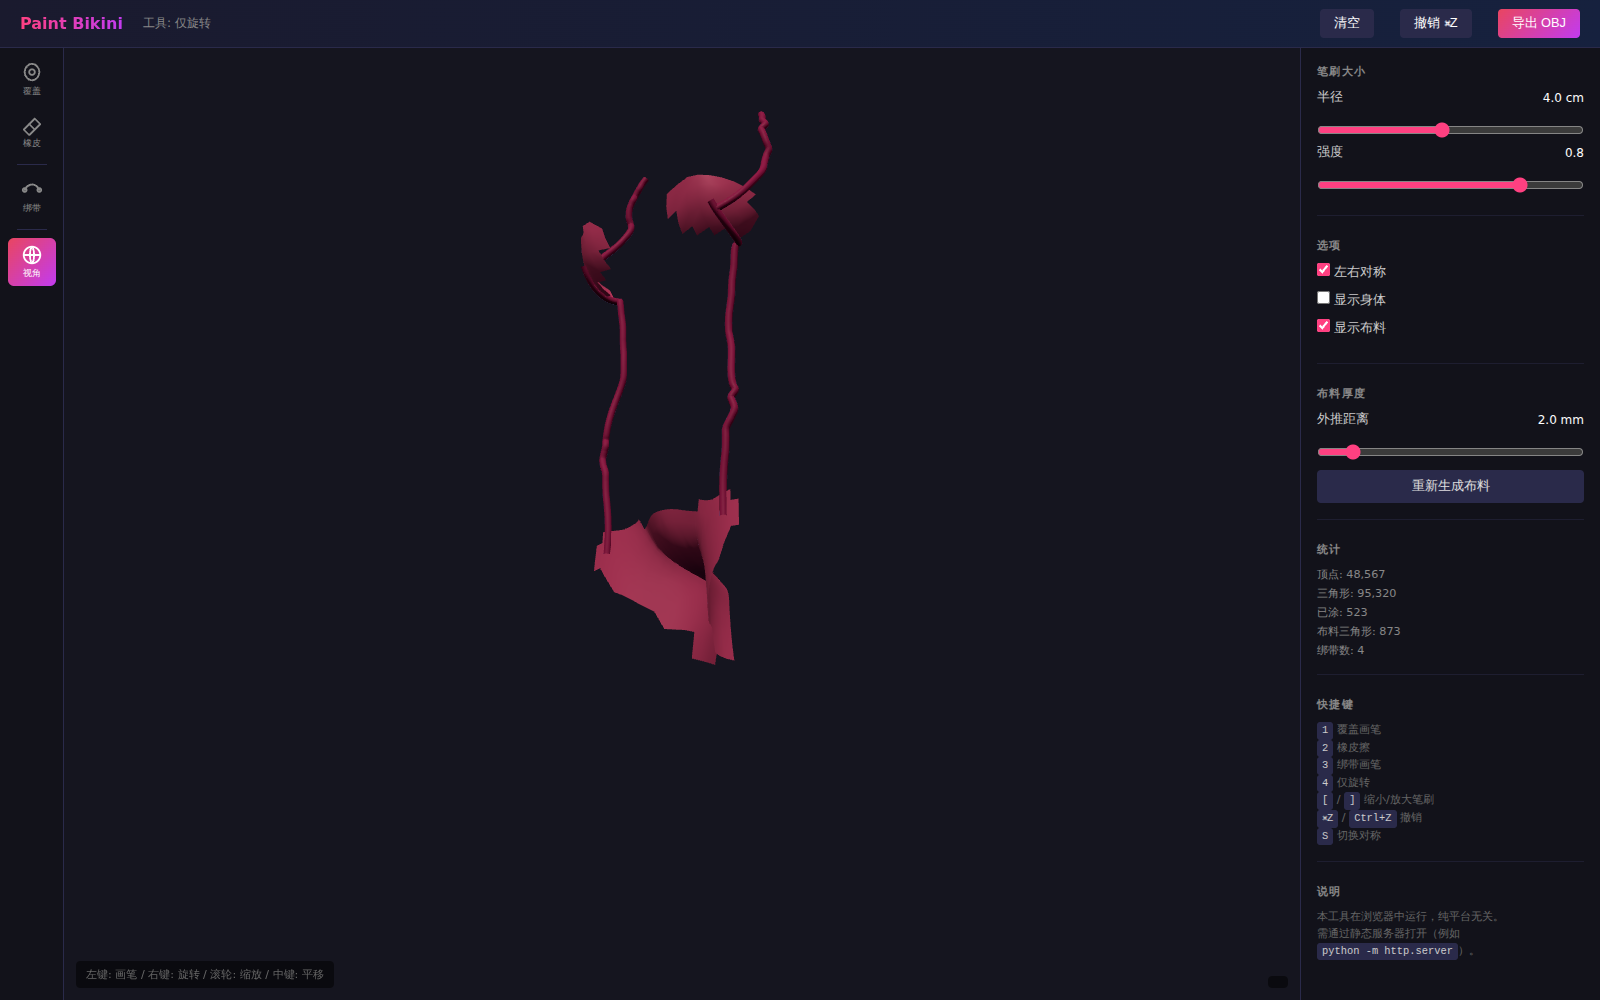
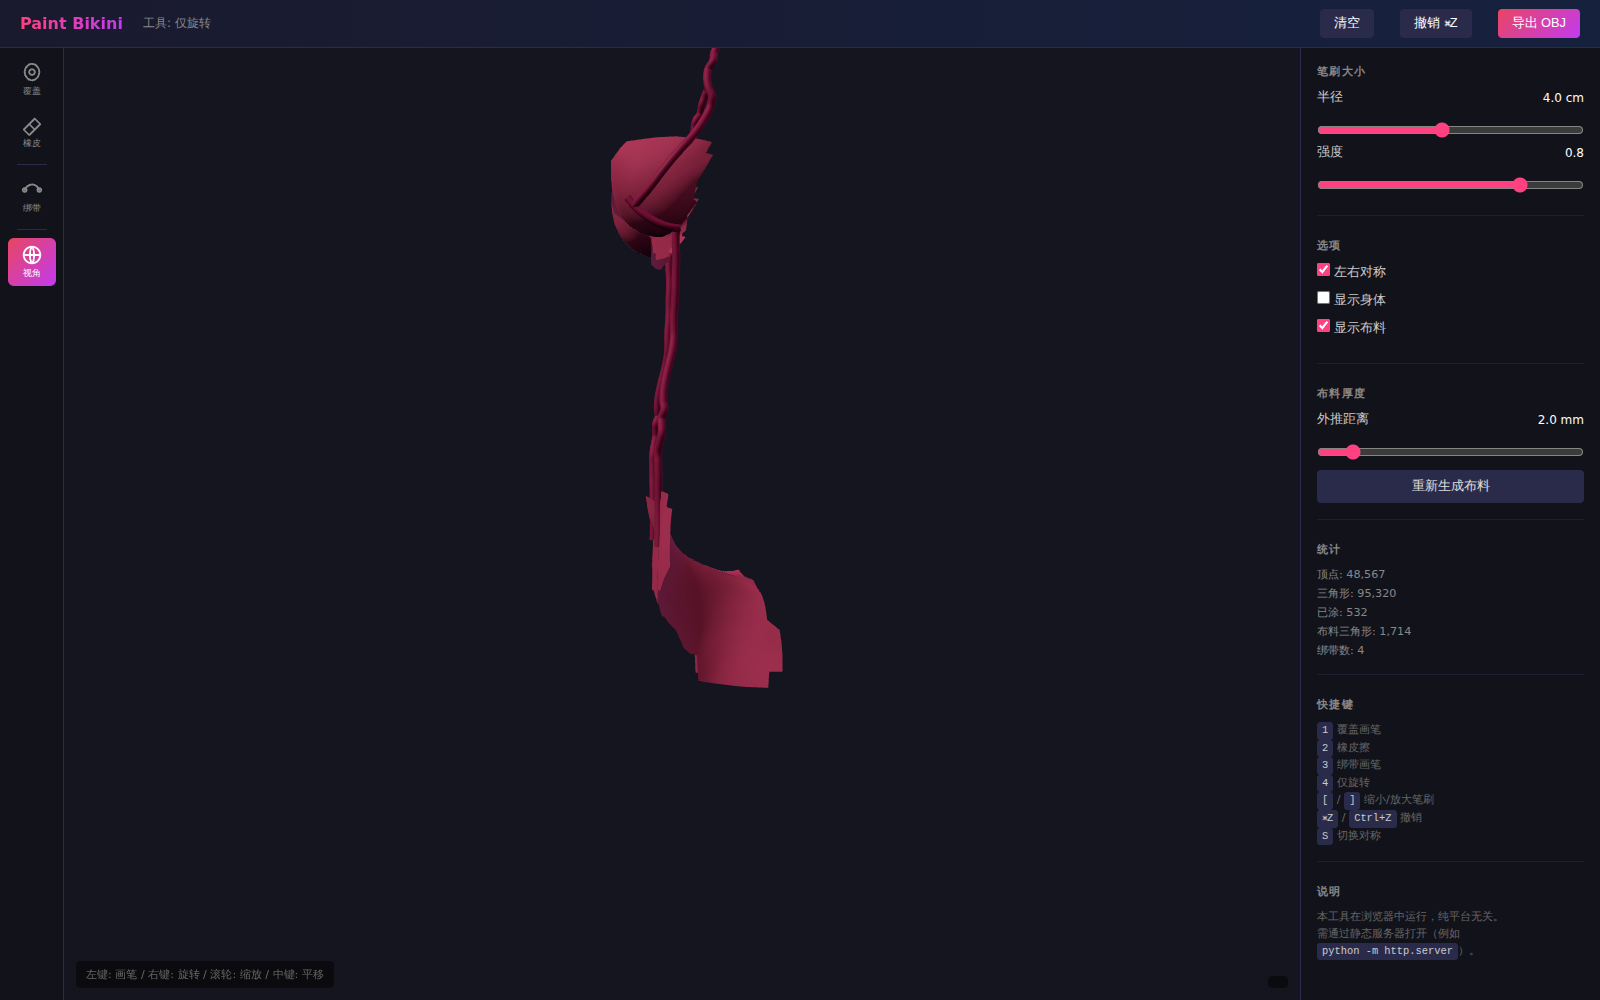
feat(paint_bikini): auto-transform paint→fabric + smooth edges
Three visual improvements:

1. Paint→fabric transform: during painting, body shows a subtle pink
   tint for feedback. On release, the tint resets to skin color and
   the fabric mesh becomes the sole visual — looks like the paint
   "becomes" cloth instead of red paint splashed on skin.

2. Smooth fabric edges: coverage is dilated by 2 vertex rings (50%
   falloff per ring) before face selection, and the normal offset is
   tapered via smoothstep based on coverage. This eliminates jagged
   triangle-staircase boundaries and creates a gradual taper where
   fabric meets skin.

3. Better fabric material: roughness 0.75 (cloth-like matte) instead
   of 0.5, metalness 0 instead of 0.08. Fabric tris increased from
   ~873 to ~1714 due to the edge dilation.

https://claude.ai/code/session_01CGx4kTKQHwBokzENgDgNYu

Changed region(s): [[0.3438, 0.062, 0.5, 0.682]]

diff --git a/paint_bikini.html b/paint_bikini.html
@@ -193,8 +193,8 @@ let hoverHit = null;
 let undoStack = [];
 
 const SKIN_COLOR = new THREE.Color(0xf0d5c8);
-const PAINT_COLOR = new THREE.Color(0xff4081);
-const FABRIC_COLOR = 0xff5080;
+const PAINT_HINT = new THREE.Color(0xf5b0b8);  // subtle tint during painting
+const FABRIC_COLOR = 0xe84070;
 const STRAP_COLOR = 0xc2185b;
 
 // ============================================================================
@@ -457,13 +457,13 @@ function paintAtVertex(startIdx, radius, strength, erase) {
       }
     }
   }
-  // Update vertex colors for touched vertices
+  // Update vertex colors — subtle tint as painting hint (fabric mesh is the real visual)
   const cArr = bodyColorAttr.array;
   for (const i of touched) {
-    const c = coverage[i] / 255;
-    cArr[i*3+0] = SKIN_COLOR.r * (1 - c) + PAINT_COLOR.r * c;
-    cArr[i*3+1] = SKIN_COLOR.g * (1 - c) + PAINT_COLOR.g * c;
-    cArr[i*3+2] = SKIN_COLOR.b * (1 - c) + PAINT_COLOR.b * c;
+    const c = Math.min(1, coverage[i] / 200); // subtle, capped
+    cArr[i*3+0] = SKIN_COLOR.r * (1 - c) + PAINT_HINT.r * c;
+    cArr[i*3+1] = SKIN_COLOR.g * (1 - c) + PAINT_HINT.g * c;
+    cArr[i*3+2] = SKIN_COLOR.b * (1 - c) + PAINT_HINT.b * c;
   }
   if (touched.length > 0) bodyColorAttr.needsUpdate = true;
 }
@@ -521,27 +521,48 @@ function clearFabrics() {
 function regenerateFabric() {
   clearFabrics();
 
-  const threshold = 64; // require at least ~25% coverage
+  const threshold = 64;
   const idx = bodyGeo.index.array;
-  const nFacesTotal = idx.length / 3;
-  // Collect all faces whose 3 verts are covered
+  const nVerts = coverage.length;
+
+  // --- Dilate coverage for smooth edges (2 rings, 50% falloff per ring) ---
+  const smoothCov = new Float32Array(nVerts);
+  for (let i = 0; i < nVerts; i++) smoothCov[i] = coverage[i];
+  for (let pass = 0; pass < 2; pass++) {
+    const prev = new Float32Array(smoothCov);
+    for (let i = 0; i < nVerts; i++) {
+      if (prev[i] >= threshold) continue;
+      const nb = neighbors[i];
+      let maxNb = 0;
+      for (let k = 0; k < nb.length; k++) {
+        if (prev[nb[k]] > maxNb) maxNb = prev[nb[k]];
+      }
+      if (maxNb > prev[i]) {
+        smoothCov[i] = Math.max(prev[i], maxNb * 0.5);
+      }
+    }
+  }
+
+  // Include faces where all 3 verts have smoothCov >= low threshold
+  const lowThreshold = 12;
   const coveredFaceList = [];
   for (let f = 0; f < idx.length; f += 3) {
-    if (coverage[idx[f]] >= threshold &&
-        coverage[idx[f+1]] >= threshold &&
-        coverage[idx[f+2]] >= threshold) {
+    if (smoothCov[idx[f]] >= lowThreshold &&
+        smoothCov[idx[f+1]] >= lowThreshold &&
+        smoothCov[idx[f+2]] >= lowThreshold) {
       coveredFaceList.push(f / 3);
     }
   }
   if (coveredFaceList.length === 0) {
     document.getElementById('stat-fabric-tris').textContent = `布料三角形: 0`;
+    resetBodyColors();
     return;
   }
 
-  // Build a fabric mesh with vertices displaced along normals
+  // --- Build fabric mesh with coverage-tapered offset for smooth edges ---
   const posAttr = bodyGeo.attributes.position.array;
   const nrmAttr = bodyGeo.attributes.normal.array;
-  const offset = state.fabricOffset;
+  const baseOffset = state.fabricOffset;
   const vertMap = new Map();
   const newPos = [];
   const newNormals = [];
@@ -552,6 +573,10 @@ function regenerateFabric() {
       if (!vertMap.has(oldI)) {
         const ni = newPos.length / 3;
         vertMap.set(oldI, ni);
+        // Smoothstep taper: edges blend from full offset → flush with body
+        const t = Math.min(1, smoothCov[oldI] / 128);
+        const smooth = t * t * (3 - 2 * t);
+        const offset = baseOffset * smooth;
         newPos.push(
           posAttr[oldI*3+0] + nrmAttr[oldI*3+0] * offset,
           posAttr[oldI*3+1] + nrmAttr[oldI*3+1] * offset,
@@ -567,13 +592,12 @@ function regenerateFabric() {
   fabricGeo.setAttribute('position', new THREE.Float32BufferAttribute(newPos, 3));
   fabricGeo.setAttribute('normal', new THREE.Float32BufferAttribute(newNormals, 3));
   fabricGeo.setIndex(newIndices);
-  // Recompute smoothed normals from the offset positions for nicer shading
   fabricGeo.computeVertexNormals();
 
   const fabricMat = new THREE.MeshStandardMaterial({
     color: FABRIC_COLOR,
-    roughness: 0.5,
-    metalness: 0.08,
+    roughness: 0.75,
+    metalness: 0.0,
     side: THREE.DoubleSide,
   });
   const fabricMesh = new THREE.Mesh(fabricGeo, fabricMat);
@@ -582,6 +606,20 @@ function regenerateFabric() {
   fabricMeshes.push(fabricMesh);
 
   document.getElementById('stat-fabric-tris').textContent = `布料三角形: ${(newIndices.length / 3).toLocaleString()}`;
+
+  // Reset body vertex colors to skin — fabric mesh is now the visual
+  resetBodyColors();
+}
+
+// Reset body vertex colors to skin (paint hint disappears, fabric mesh takes over)
+function resetBodyColors() {
+  const cArr = bodyColorAttr.array;
+  for (let i = 0; i < coverage.length; i++) {
+    cArr[i*3+0] = SKIN_COLOR.r;
+    cArr[i*3+1] = SKIN_COLOR.g;
+    cArr[i*3+2] = SKIN_COLOR.b;
+  }
+  bodyColorAttr.needsUpdate = true;
 }
 
 // ============================================================================
@@ -759,15 +797,7 @@ function undo() {
   if (undoStack.length === 0) { setStatus('无可撤销'); return; }
   const snap = undoStack.pop();
   coverage.set(snap.coverage);
-  // Rebuild vertex colors
-  const cArr = bodyColorAttr.array;
-  for (let i = 0; i < coverage.length; i++) {
-    const c = coverage[i] / 255;
-    cArr[i*3+0] = SKIN_COLOR.r * (1 - c) + PAINT_COLOR.r * c;
-    cArr[i*3+1] = SKIN_COLOR.g * (1 - c) + PAINT_COLOR.g * c;
-    cArr[i*3+2] = SKIN_COLOR.b * (1 - c) + PAINT_COLOR.b * c;
-  }
-  bodyColorAttr.needsUpdate = true;
+  resetBodyColors();
   // Pop any fabric/strap meshes created after this snapshot
   while (fabricMeshes.length > snap.fabricCount) {
     const m = fabricMeshes.pop();
@@ -787,13 +817,7 @@ function undo() {
 function clearAll() {
   pushUndoSnapshot();
   coverage.fill(0);
-  const cArr = bodyColorAttr.array;
-  for (let i = 0; i < coverage.length; i++) {
-    cArr[i*3+0] = SKIN_COLOR.r;
-    cArr[i*3+1] = SKIN_COLOR.g;
-    cArr[i*3+2] = SKIN_COLOR.b;
-  }
-  bodyColorAttr.needsUpdate = true;
+  resetBodyColors();
   clearFabrics();
   clearStraps();
   document.getElementById('stat-fabric-tris').textContent = `布料三角形: 0`;
